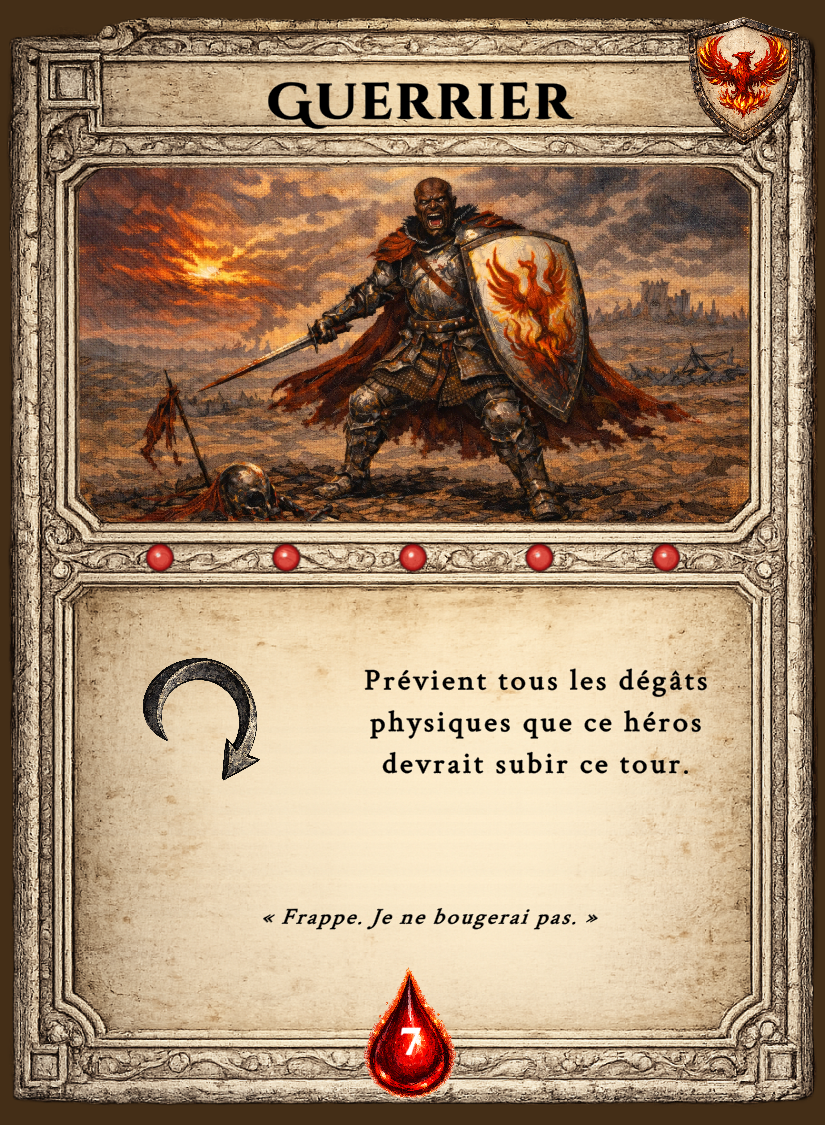
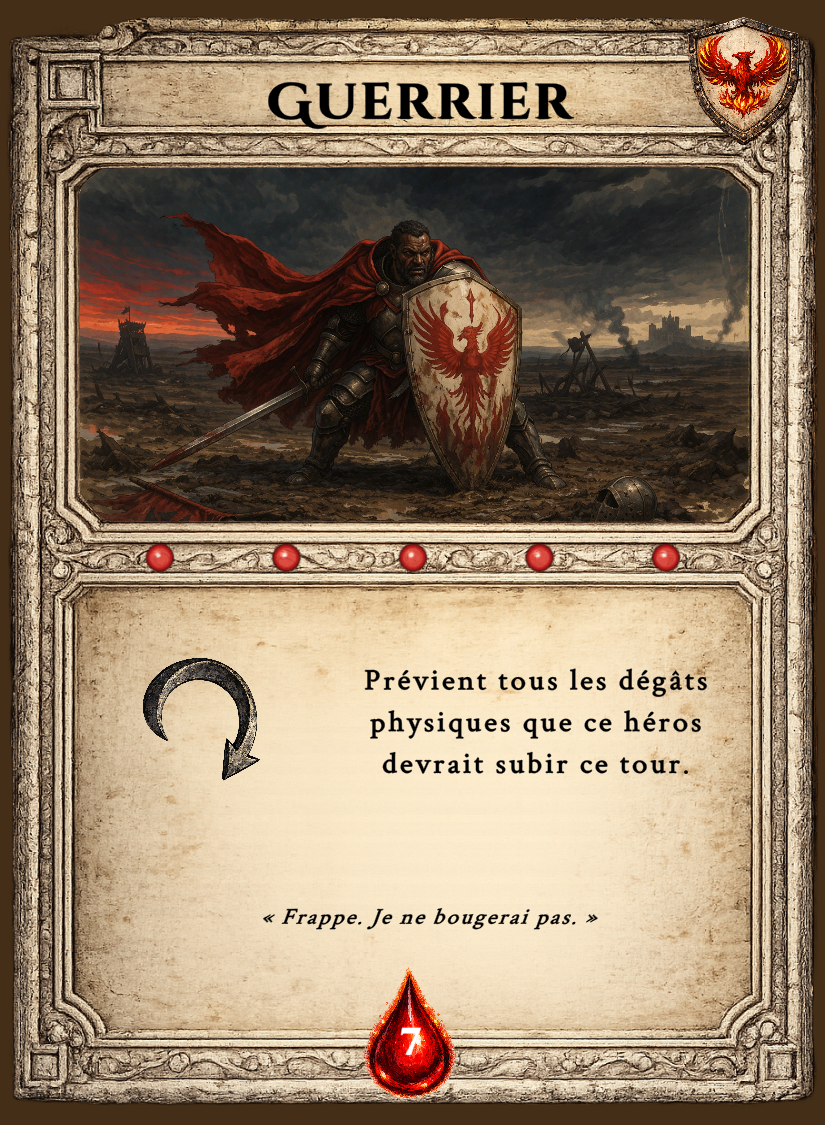
Màj Guerrier (raw + face inpainting) et ajout guide post-traitement
- Régénération du portrait Guerrier avec meilleur contraste et palette rouge
- Inpainting visage pour plus de netteté et expression
- Ajout section post-traitement obligatoire dans ART_REFAIRE.md

Changed region(s): [[0.0909, 0.1244, 0.9091, 0.4667]]

diff --git a/ART_REFAIRE.md b/ART_REFAIRE.md
@@ -59,6 +59,16 @@ Style cible : MTG painterly (voir memory/reference_art_prompt.md)
 
 ---
 
+## Post-traitement obligatoire (tous les heros)
+
+Apres generation de chaque hero, faire un **inpainting cible** :
+1. **Visage** : regenerer en zoom le visage si trop flou/generique/lisse. Insister sur les imperfections specifiques du perso (cicatrices, asymetrie, expression). Le visage doit etre lisible a taille carte imprimee.
+2. **Details armure/equipement** : inpainting sur les zones d'armure, armes, emblemes si textures trop "fondues". Ajouter nettete et bords durs.
+3. **Contraste figure/fond** : si le personnage se perd dans le decor, assombrir le fond ou ajouter un accent de couleur froide (reflet bleu acier, lueur magique) pour creer du contraste avec la palette chaude.
+4. **Palette** : verifier que la couleur thematique du heros domine bien. Si tout est brun/orange monotone, injecter la couleur thematique plus fort (rouge vif guerrier, bleu electrique mage, etc.) et assombrir le fond pour que les elements de carte (gemmes, bordure) ressortent.
+
+---
+
 **Total : 35 images a refaire**
 - 5 heros
 - 5 monstres
